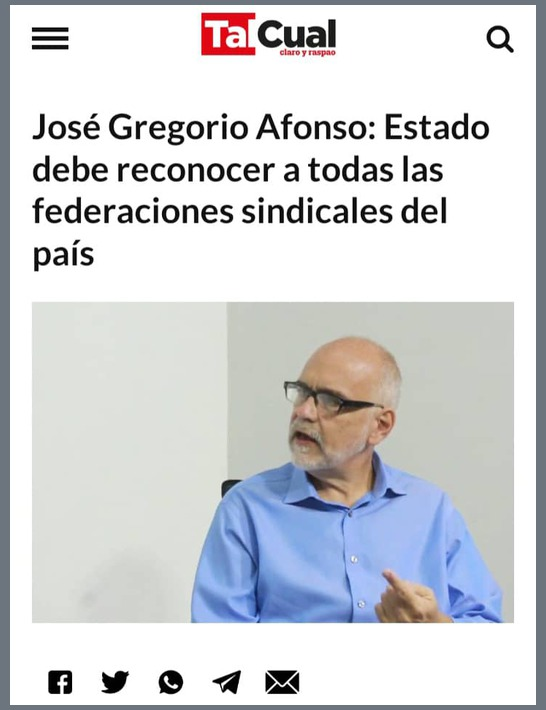
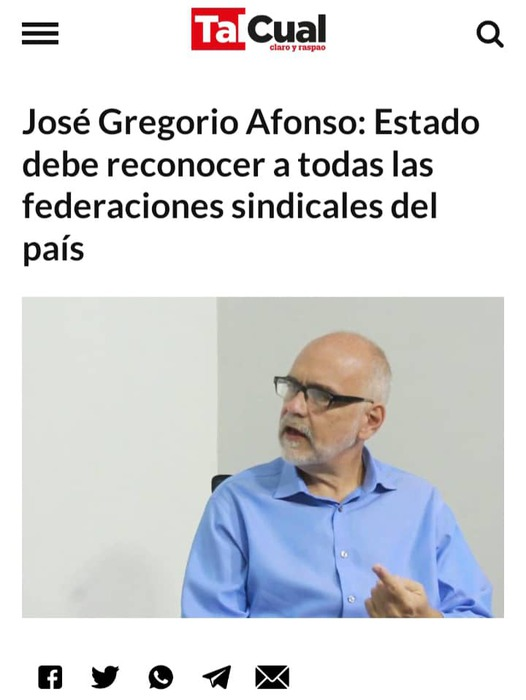
cambio fotos border y titulo

diff --git a/_site/noticias.html b/_site/noticias.html
@@ -159,13 +159,123 @@ gtag('config', 'G-MBPR5Z7TW8', { 'anonymize_ip': true});
 <div id="tabset-1-1" class="tab-pane active" role="tabpanel" aria-labelledby="tabset-1-1-tab">
 <div class="quarto-layout-panel">
 <div class="quarto-layout-row quarto-layout-valign-top">
-<div class="quarto-layout-cell" style="flex-basis: 100.0%;justify-content: center;">
-<p><a href="img/noticias/noticia_1.jpeg" class="lightbox" data-desc-position="left" title="Crónica Uno" data-gallery="noti1" data-description="<p>Ir a la noticia: <a href='https://cronica.uno/instructivo-onapre-redujo-bono-vacacional-de-educacion-a-la-mitad/' target='_blank'>Crónica Uno</a></p>"><img src="img/noticias/noticia_1.jpeg" class="img-fluid" alt="Crónica Uno"></a> <a href="img/noticias/noticia_2.jpeg" class="lightbox" data-desc-position="left" title="UCV Noticias" data-gallery="noti1" data-description="<p>Ir a la noticia: <a href='https://ucvnoticias.wordpress.com/2022/08/30/gregorio-afonso-elecciones-profesorales-son-una-oportunidad-para-renovar-el-liderazgo/' target='_blank'>UCV Noticias</a></p>"><img src="img/noticias/noticia_2.jpeg" class="img-fluid" alt="UCV Noticias"></a> <a href="img/noticias/noticia_3.jpeg" class="lightbox" data-desc-position="left" title="Contrapunto.com" data-gallery="noti1" data-description="<p>Ir a la noticia: <a href='https://contrapunto.com/especiales/entrevistas-ctp/jose-gregorio-afonso-desde-la-apucv-a-nosotros-nos-queda-seguir-presionando-al-estado/' target='_blank'>Contrapunto.com</a></p>"><img src="img/noticias/noticia_3.jpeg" class="img-fluid" alt="Contrapunto.com"></a></p>
+<div class="quarto-figure quarto-figure-center" style="flex-basis: 100.0%;justify-content: center;">
+<figure class="figure">
+<p><a href="img/noticias/noticia_1.jpeg" class="lightbox" data-description="<p>Ir a la noticia: <a href='https://cronica.uno/instructivo-onapre-redujo-bono-vacacional-de-educacion-a-la-mitad/' target='_blank'>Crónica Uno</a></p>" data-desc-position="left" title="Crónica Uno" data-gallery="noti1"><img src="img/noticias/noticia_1.jpeg" class="img-fluid figure-img"></a></p>
+<p></p><figcaption class="figure-caption"><a href="https://cronica.uno/instructivo-onapre-redujo-bono-vacacional-de-educacion-a-la-mitad/" target="_blank">Crónica Uno</a></figcaption><p></p>
+</figure>
 </div>
 </div>
 <div class="quarto-layout-row quarto-layout-valign-top">
-<div class="quarto-layout-cell" style="flex-basis: 100.0%;justify-content: center;">
-<p><a href="img/noticias/noticia_5.jpeg" class="lightbox" data-desc-position="left" title="Hispanopost" data-gallery="noti1" data-description="<p>Ir a la noticia: <a href='https://hispanopost.com/gregorio-afonso-nuestra-lucha-continuara-hasta-que-cese-el-instructivo-onapre-y-se-cumpla-con-el-debido-proceso-a-los-companeros-detenidos/' target='_blank'>Hispanopost</a></p>"><img src="img/noticias/noticia_5.jpeg" class="img-fluid" alt="Hispanopost"></a> <a href="img/noticias/noticia_6.jpeg" class="lightbox" data-desc-position="left" title="Criptonoticias" data-gallery="noti1" data-description="<p>Ir a la noticia: <a href='https://www.criptonoticias.com/comunidad/por-que-docentes-venezolanos-no-invirtieron-bono-vacacional-bitcoin/' target='_blank'>Criptonoticias</a></p>"><img src="img/noticias/noticia_6.jpeg" class="img-fluid" alt="Criptonoticias"></a> <a href="img/noticias/noticia_7.jpeg" class="lightbox" data-desc-position="left" title="UCV Noticias" data-gallery="noti1" data-description="<p>Ir a la noticia: <a href='https://ucvnoticias.wordpress.com/2022/06/07/jose-gregorio-afonso-no-hay-salario-que-supere-la-autonomia' target='_blank'>UCV Noticias</a></p>"><img src="img/noticias/noticia_7.jpeg" class="img-fluid" alt="UCV Noticias"></a> <a href="img/noticias/noticia_8.jpeg" class="lightbox" data-desc-position="left" title="El Pitazo" data-gallery="noti1" data-description="<p>Ir a la noticia: <a href='https://elpitazo.net/gran-caracas/universitarios-califican-de-violacion-fraccionamiento-de-pago-del-bono-vacacional-y-recreacional/' target='_blank'>El Pitazo</a></p>"><img src="img/noticias/noticia_8.jpeg" class="img-fluid" alt="El Pitazo"></a> <a href="img/noticias/noticia_9.jpeg" class="lightbox" data-desc-position="left" title="Analítica.com" data-gallery="noti1" data-description="<p>Ir a la noticia: <a href='https://www.analitica.com/economia/luis-crespo-se-ha-buscado-liquidar-el-modelo-de-universidad-que-ha-representado-tanto' target='_blank'>Analítica.com</a></p>"><img src="img/noticias/noticia_9.jpeg" class="img-fluid" alt="Analítica.com"></a> <a href="img/noticias/noticia_10.jpeg" class="lightbox" data-desc-position="left" title="Contrapunto.com" data-gallery="noti1" data-description="<p>Ir a la noticia: <a href='https://contrapunto.com/nacional/derechos-humanos/profesor-jose-gregorio-afonso-la-agresion-del-gobierno-contra-los-trabajadores-no-tiene-precedentes/' target='_blank'>Contrapunto.com</a></p>"><img src="img/noticias/noticia_10.jpeg" class="img-fluid" alt="Contrapunto.com"></a> <a href="img/noticias/noticia_11.jpeg" class="lightbox" data-desc-position="left" title="Tal Cual" data-gallery="noti1" data-description="<p>Ir a la noticia: <a href='https://talcualdigital.com/jose-gregorio-afonso-estado-debe-reconocer-a-todas-las-federaciones-sindicales-del-pais/' target='_blank'>Tal Cual</a></p>"><img src="img/noticias/noticia_11.jpeg" class="img-fluid" alt="Tal Cual"></a> <a href="img/noticias/noticia_12.jpeg" class="lightbox" data-desc-position="left" title="Contrapunto.com" data-gallery="noti1" data-description="<p>Ir a la noticia: <a href='https://contrapunto.com/nacional/universidades/profesor-jose-gregorio-afonso-advierte-que-a-los-empleados-publicos-les-pueden-recortar-el-bono-de-fin-de-ano-en-mas-de-50/' target='_blank'>Contrapunto.com</a></p>"><img src="img/noticias/noticia_12.jpeg" class="img-fluid" alt="Contrapunto.com"></a> <a href="img/noticias/noticia_13.jpeg" class="lightbox" data-desc-position="left" title="El Diario de Guayana" data-gallery="noti1" data-description="<p>Ir a la noticia: <a href='https://eldiariodeguayana.com.ve/jose-gregorio-afonso-no-es-bueno-que-tsj-desestime-recursos-contra-instructivo-onapre/' target='_blank'>El Diario de Guayana</a></p>"><img src="img/noticias/noticia_13.jpeg" class="img-fluid" alt="El Diario de Guayana"></a> <a href="img/noticias/noticia_14.jpeg" class="lightbox" data-desc-position="left" title="El Nacional" data-gallery="noti1" data-description="<p>Ir a la noticia: <a href='https://www.elnacional.com/venezuela/sector-universitario-protesta-para-exigir-restitucion-de-derechos-laborales/' target='_blank'>El Nacional</a></p>"><img src="img/noticias/noticia_14.jpeg" class="img-fluid" alt="El Nacional"></a> <a href="img/noticias/noticia_4.jpeg" class="lightbox" data-desc-position="left" title="Con La Lupa" data-gallery="noti1" data-description="<p>Ir a la noticia: <a href='https://conlalupa.com/con-la-lupa-de-los-expertos/profesor-jose-gregorio-afonso-el-instructivo-onapre-es-arbitrario-y-opaco/' target='_blank'>Con La Lupa</a></p>"><img src="img/noticias/noticia_4.jpeg" class="img-fluid" alt="Con La Lupa"></a> <a href="img/noticias/noticia_15.jpeg" class="lightbox" data-desc-position="left" title="El Nacional" data-gallery="noti1" data-description="<p>Ir a la noticia: <a href='https://www.elnacional.com/economia/exigen-que-el-estado-venezolano-publique-cifras-economicas-y-sociales-actualizadas/' target='_blank'>El Nacional</a></p>"><img src="img/noticias/noticia_15.jpeg" class="img-fluid" alt="El Nacional"></a></p>
+<div class="quarto-figure quarto-figure-center" style="flex-basis: 100.0%;justify-content: center;">
+<figure class="figure">
+<p><a href="img/noticias/noticia_2.jpeg" class="lightbox" data-description="<p>Ir a la noticia: <a href='https://ucvnoticias.wordpress.com/2022/08/30/gregorio-afonso-elecciones-profesorales-son-una-oportunidad-para-renovar-el-liderazgo/' target='_blank'>UCV Noticias</a></p>" data-desc-position="left" title="UCV Noticias" data-gallery="noti1"><img src="img/noticias/noticia_2.jpeg" class="img-fluid figure-img"></a></p>
+<p></p><figcaption class="figure-caption"><a href="https://ucvnoticias.wordpress.com/2022/08/30/gregorio-afonso-elecciones-profesorales-son-una-oportunidad-para-renovar-el-liderazgo/" target="_blank">UCV Noticias</a></figcaption><p></p>
+</figure>
+</div>
+</div>
+<div class="quarto-layout-row quarto-layout-valign-top">
+<div class="quarto-figure quarto-figure-center" style="flex-basis: 100.0%;justify-content: center;">
+<figure class="figure">
+<p><a href="img/noticias/noticia_3.jpeg" class="lightbox" data-description="<p>Ir a la noticia: <a href='https://contrapunto.com/especiales/entrevistas-ctp/jose-gregorio-afonso-desde-la-apucv-a-nosotros-nos-queda-seguir-presionando-al-estado/' target='_blank'>Contrapunto.com</a></p>" data-desc-position="left" title="Contrapunto.com" data-gallery="noti1"><img src="img/noticias/noticia_3.jpeg" class="img-fluid figure-img"></a></p>
+<p></p><figcaption class="figure-caption"><a href="https://contrapunto.com/especiales/entrevistas-ctp/jose-gregorio-afonso-desde-la-apucv-a-nosotros-nos-queda-seguir-presionando-al-estado/" target="_blank">Contrapunto.com</a></figcaption><p></p>
+</figure>
+</div>
+</div>
+<div class="quarto-layout-row quarto-layout-valign-top">
+<div class="quarto-figure quarto-figure-center" style="flex-basis: 100.0%;justify-content: center;">
+<figure class="figure">
+<p><a href="img/noticias/noticia_4.jpeg" class="lightbox" data-description="<p>Ir a la noticia: <a href='https://conlalupa.com/con-la-lupa-de-los-expertos/profesor-jose-gregorio-afonso-el-instructivo-onapre-es-arbitrario-y-opaco/' target='_blank'>Con La Lupa</a></p>" data-desc-position="left" title="Con La Lupa" data-gallery="noti1"><img src="img/noticias/noticia_4.jpeg" class="img-fluid figure-img"></a></p>
+<p></p><figcaption class="figure-caption"><a href="https://conlalupa.com/con-la-lupa-de-los-expertos/profesor-jose-gregorio-afonso-el-instructivo-onapre-es-arbitrario-y-opaco/" target="_blank">Con La Lupa</a></figcaption><p></p>
+</figure>
+</div>
+</div>
+<div class="quarto-layout-row quarto-layout-valign-top">
+<div class="quarto-figure quarto-figure-center" style="flex-basis: 100.0%;justify-content: center;">
+<figure class="figure">
+<p><a href="img/noticias/noticia_5.jpeg" class="lightbox" data-description="<p>Ir a la noticia: <a href='https://hispanopost.com/gregorio-afonso-nuestra-lucha-continuara-hasta-que-cese-el-instructivo-onapre-y-se-cumpla-con-el-debido-proceso-a-los-companeros-detenidos/' target='_blank'>Hispanopost</a></p>" data-desc-position="left" title="Hispanopost" data-gallery="noti1"><img src="img/noticias/noticia_5.jpeg" class="img-fluid figure-img"></a></p>
+<p></p><figcaption class="figure-caption"><a href="https://hispanopost.com/gregorio-afonso-nuestra-lucha-continuara-hasta-que-cese-el-instructivo-onapre-y-se-cumpla-con-el-debido-proceso-a-los-companeros-detenidos/" target="_blank">Hispanopost</a></figcaption><p></p>
+</figure>
+</div>
+</div>
+<div class="quarto-layout-row quarto-layout-valign-top">
+<div class="quarto-figure quarto-figure-center" style="flex-basis: 100.0%;justify-content: center;">
+<figure class="figure">
+<p><a href="img/noticias/noticia_6.jpeg" class="lightbox" data-description="<p>Ir a la noticia: <a href='https://www.criptonoticias.com/comunidad/por-que-docentes-venezolanos-no-invirtieron-bono-vacacional-bitcoin/' target='_blank'>Criptonoticias</a></p>" data-desc-position="left" title="Criptonoticias" data-gallery="noti1"><img src="img/noticias/noticia_6.jpeg" class="img-fluid figure-img"></a></p>
+<p></p><figcaption class="figure-caption"><a href="https://www.criptonoticias.com/comunidad/por-que-docentes-venezolanos-no-invirtieron-bono-vacacional-bitcoin/" target="_blank">Criptonoticias</a></figcaption><p></p>
+</figure>
+</div>
+</div>
+<div class="quarto-layout-row quarto-layout-valign-top">
+<div class="quarto-figure quarto-figure-center" style="flex-basis: 100.0%;justify-content: center;">
+<figure class="figure">
+<p><a href="img/noticias/noticia_7.jpeg" class="lightbox" data-description="<p>Ir a la noticia: <a href='https://ucvnoticias.wordpress.com/2022/06/07/jose-gregorio-afonso-no-hay-salario-que-supere-la-autonomia' target='_blank'>UCV Noticias</a></p>" data-desc-position="left" title="UCV Noticias" data-gallery="noti1"><img src="img/noticias/noticia_7.jpeg" class="img-fluid figure-img"></a></p>
+<p></p><figcaption class="figure-caption"><a href="https://ucvnoticias.wordpress.com/2022/06/07/jose-gregorio-afonso-no-hay-salario-que-supere-la-autonomia" target="_blank">UCV Noticias</a></figcaption><p></p>
+</figure>
+</div>
+</div>
+<div class="quarto-layout-row quarto-layout-valign-top">
+<div class="quarto-figure quarto-figure-center" style="flex-basis: 100.0%;justify-content: center;">
+<figure class="figure">
+<p><a href="img/noticias/noticia_8.jpeg" class="lightbox" data-description="<p>Ir a la noticia: <a href='https://elpitazo.net/gran-caracas/universitarios-califican-de-violacion-fraccionamiento-de-pago-del-bono-vacacional-y-recreacional/' target='_blank'>El Pitazo</a></p>" data-desc-position="left" title="El Pitazo" data-gallery="noti1"><img src="img/noticias/noticia_8.jpeg" class="img-fluid figure-img"></a></p>
+<p></p><figcaption class="figure-caption"><a href="https://elpitazo.net/gran-caracas/universitarios-califican-de-violacion-fraccionamiento-de-pago-del-bono-vacacional-y-recreacional/" target="_blank">El Pitazo</a></figcaption><p></p>
+</figure>
+</div>
+</div>
+<div class="quarto-layout-row quarto-layout-valign-top">
+<div class="quarto-figure quarto-figure-center" style="flex-basis: 100.0%;justify-content: center;">
+<figure class="figure">
+<p><a href="img/noticias/noticia_9.jpeg" class="lightbox" data-description="<p>Ir a la noticia: <a href='https://www.analitica.com/economia/luis-crespo-se-ha-buscado-liquidar-el-modelo-de-universidad-que-ha-representado-tanto' target='_blank'>Analítica.com</a></p>" data-desc-position="left" title="Analítica.com" data-gallery="noti1"><img src="img/noticias/noticia_9.jpeg" class="img-fluid figure-img"></a></p>
+<p></p><figcaption class="figure-caption"><a href="https://www.analitica.com/economia/luis-crespo-se-ha-buscado-liquidar-el-modelo-de-universidad-que-ha-representado-tanto" target="_blank">Analítica.com</a></figcaption><p></p>
+</figure>
+</div>
+</div>
+<div class="quarto-layout-row quarto-layout-valign-top">
+<div class="quarto-figure quarto-figure-center" style="flex-basis: 100.0%;justify-content: center;">
+<figure class="figure">
+<p><a href="img/noticias/noticia_10.jpeg" class="lightbox" data-description="<p>Ir a la noticia: <a href='https://contrapunto.com/nacional/derechos-humanos/profesor-jose-gregorio-afonso-la-agresion-del-gobierno-contra-los-trabajadores-no-tiene-precedentes/' target='_blank'>Contrapunto.com</a></p>" data-desc-position="left" title="Contrapunto.com" data-gallery="noti1"><img src="img/noticias/noticia_10.jpeg" class="img-fluid figure-img"></a></p>
+<p></p><figcaption class="figure-caption"><a href="https://contrapunto.com/nacional/derechos-humanos/profesor-jose-gregorio-afonso-la-agresion-del-gobierno-contra-los-trabajadores-no-tiene-precedentes/" target="_blank">Contrapunto.com</a></figcaption><p></p>
+</figure>
+</div>
+</div>
+<div class="quarto-layout-row quarto-layout-valign-top">
+<div class="quarto-figure quarto-figure-center" style="flex-basis: 100.0%;justify-content: center;">
+<figure class="figure">
+<p><a href="img/noticias/noticia_11.jpeg" class="lightbox" data-description="<p>Ir a la noticia: <a href='https://talcualdigital.com/jose-gregorio-afonso-estado-debe-reconocer-a-todas-las-federaciones-sindicales-del-pais/' target='_blank'>Tal Cual</a></p>" data-desc-position="left" title="Tal Cual" data-gallery="noti1"><img src="img/noticias/noticia_11.jpeg" class="img-fluid figure-img"></a></p>
+<p></p><figcaption class="figure-caption"><a href="https://talcualdigital.com/jose-gregorio-afonso-estado-debe-reconocer-a-todas-las-federaciones-sindicales-del-pais/" target="_blank">Tal Cual</a></figcaption><p></p>
+</figure>
+</div>
+</div>
+<div class="quarto-layout-row quarto-layout-valign-top">
+<div class="quarto-figure quarto-figure-center" style="flex-basis: 100.0%;justify-content: center;">
+<figure class="figure">
+<p><a href="img/noticias/noticia_12.jpeg" class="lightbox" data-description="<p>Ir a la noticia: <a href='https://contrapunto.com/nacional/universidades/profesor-jose-gregorio-afonso-advierte-que-a-los-empleados-publicos-les-pueden-recortar-el-bono-de-fin-de-ano-en-mas-de-50/' target='_blank'>Contrapunto.com</a></p>" data-desc-position="left" title="Contrapunto.com" data-gallery="noti1"><img src="img/noticias/noticia_12.jpeg" class="img-fluid figure-img"></a></p>
+<p></p><figcaption class="figure-caption"><a href="https://contrapunto.com/nacional/universidades/profesor-jose-gregorio-afonso-advierte-que-a-los-empleados-publicos-les-pueden-recortar-el-bono-de-fin-de-ano-en-mas-de-50/" target="_blank">Contrapunto.com</a></figcaption><p></p>
+</figure>
+</div>
+</div>
+<div class="quarto-layout-row quarto-layout-valign-top">
+<div class="quarto-figure quarto-figure-center" style="flex-basis: 100.0%;justify-content: center;">
+<figure class="figure">
+<p><a href="img/noticias/noticia_13.jpeg" class="lightbox" data-description="<p>Ir a la noticia: <a href='https://eldiariodeguayana.com.ve/jose-gregorio-afonso-no-es-bueno-que-tsj-desestime-recursos-contra-instructivo-onapre/' target='_blank'>El Diario de Guayana</a></p>" data-desc-position="left" title="El Diario de Guayana" data-gallery="noti1"><img src="img/noticias/noticia_13.jpeg" class="img-fluid figure-img"></a></p>
+<p></p><figcaption class="figure-caption"><a href="https://eldiariodeguayana.com.ve/jose-gregorio-afonso-no-es-bueno-que-tsj-desestime-recursos-contra-instructivo-onapre/" target="_blank">El Diario de Guayana</a></figcaption><p></p>
+</figure>
+</div>
+</div>
+<div class="quarto-layout-row quarto-layout-valign-top">
+<div class="quarto-figure quarto-figure-center" style="flex-basis: 100.0%;justify-content: center;">
+<figure class="figure">
+<p><a href="img/noticias/noticia_14.jpeg" class="lightbox" data-description="<p>Ir a la noticia: <a href='https://www.elnacional.com/venezuela/sector-universitario-protesta-para-exigir-restitucion-de-derechos-laborales/' target='_blank'>El Nacional</a></p>" data-desc-position="left" title="El Nacional" data-gallery="noti1"><img src="img/noticias/noticia_14.jpeg" class="img-fluid figure-img"></a></p>
+<p></p><figcaption class="figure-caption"><a href="https://www.elnacional.com/venezuela/sector-universitario-protesta-para-exigir-restitucion-de-derechos-laborales/" target="_blank">El Nacional</a></figcaption><p></p>
+</figure>
+</div>
+</div>
+<div class="quarto-layout-row quarto-layout-valign-top">
+<div class="quarto-figure quarto-figure-center" style="flex-basis: 100.0%;justify-content: center;">
+<figure class="figure">
+<p><a href="img/noticias/noticia_15.jpeg" class="lightbox" data-description="<p>Ir a la noticia: <a href='https://www.elnacional.com/economia/exigen-que-el-estado-venezolano-publique-cifras-economicas-y-sociales-actualizadas/' target='_blank'>El Nacional</a></p>" data-desc-position="left" title="El Nacional" data-gallery="noti1"><img src="img/noticias/noticia_15.jpeg" class="img-fluid figure-img"></a></p>
+<p></p><figcaption class="figure-caption"><a href="https://www.elnacional.com/economia/exigen-que-el-estado-venezolano-publique-cifras-economicas-y-sociales-actualizadas/" target="_blank">El Nacional</a></figcaption><p></p>
+</figure>
 </div>
 </div>
 </div>
@@ -397,7 +507,7 @@ window.document.addEventListener("DOMContentLoaded", function (event) {
     </div>
   </div>
 </footer>
-<script>var lightboxQuarto = GLightbox({"closeEffect":"zoom","loop":true,"selector":".lightbox","descPosition":"bottom","openEffect":"zoom"});</script>
+<script>var lightboxQuarto = GLightbox({"descPosition":"bottom","selector":".lightbox","openEffect":"zoom","closeEffect":"zoom","loop":true});</script>
 
 
 

diff --git a/_site/styles.css b/_site/styles.css
@@ -23,9 +23,12 @@ h4{
 }
 
 .figure-caption{
-   font-size: 26px;
+   font-size: 20px;
 }
   
+.figure{
+  border-style: solid;
+}
 
 .navbar-title{
    color: #fff;

diff --git a/styles.css b/styles.css
@@ -23,9 +23,12 @@ h4{
 }
 
 .figure-caption{
-   font-size: 26px;
+   font-size: 20px;
 }
   
+.figure{
+  border-style: solid;
+}
 
 .navbar-title{
    color: #fff;
